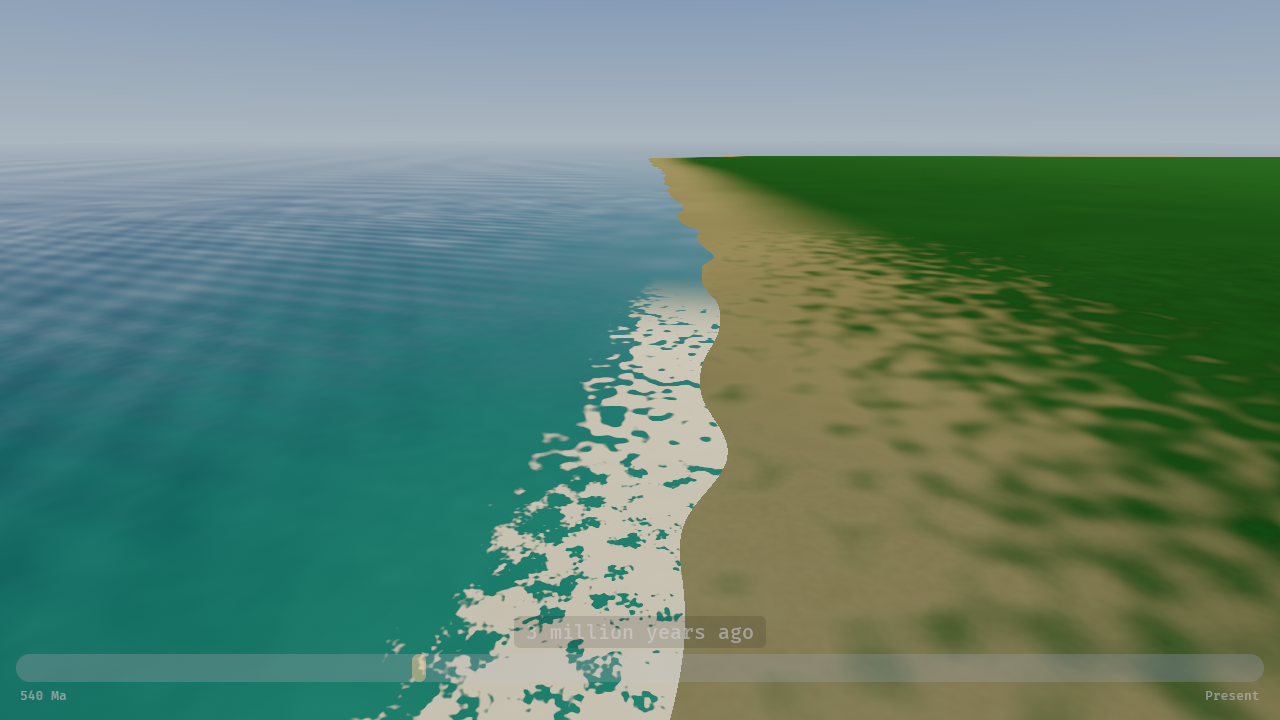
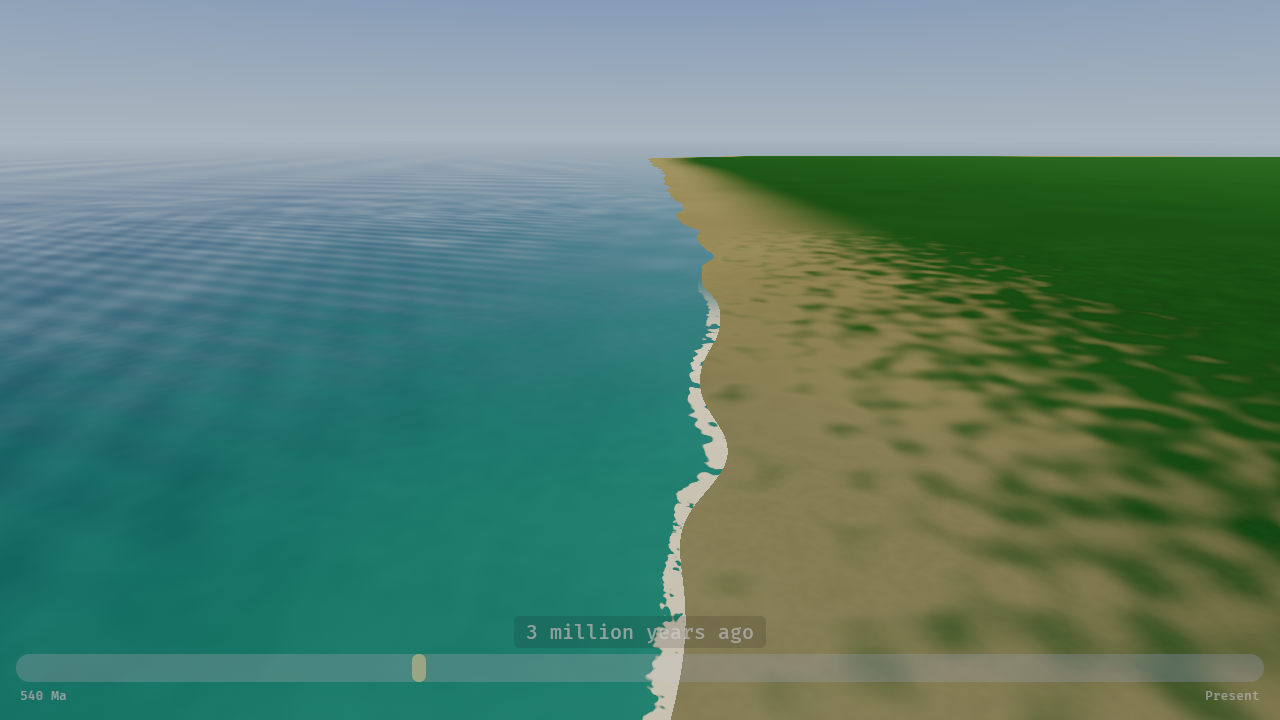
art pass: keep shore foam narrow on flat coasts, fade the swash line
- The depth-band foam ends at min(FOAM_DEPTH_M, 60 m x floor slope) of water
  (at least 2 cm), so on gentle shelves it stays about 60 m wide on the
  ground instead of kilometre-wide white fields; coasts steeper than 4/60 keep
  the 4 m band exactly (ruling R9).
- The swash foam line fades by octave_weight(footprint, its ground width), so
  on steep coasts, where it is under 2 m wide, it no longer aliases or crawls.
- Rust mirrors (foam_band_depth_m, swash_line_width_m, octave_weight) with
  tests; the floor slope is now read wherever the foam band can reach.
- The Red Sea coastal scene moves onto the shore at 19.9105,37.2116 (R10).

Changed region(s): [[0.2812, 0.3667, 0.5625, 1.0]]

diff --git a/crates/timefly/src/water.rs b/crates/timefly/src/water.rs
@@ -12,7 +12,8 @@
 //! - **Fragment:** the sea-floor depth is `−blended_height` at the fragment's surface point.
 //!   Fragments over land (depth ≤ 0) are discarded, so the shoreline is the height field's own
 //!   zero contour, per pixel. Then the depth tint ([`water_tint`]), foam where `0 < depth < 4 m`
-//!   broken up by `noise.wesl`, Bevy PBR lighting, and a Schlick Fresnel blend (f0 = 0.02) toward
+//!   (within [`FOAM_WIDTH_M`] of the edge on gentle coasts, [`foam_band_depth_m`]) broken up by
+//!   `noise.wesl`, Bevy PBR lighting, and a Schlick Fresnel blend (f0 = 0.02) toward
 //!   the sky's colour along the reflected ray.
 //!
 //! Waves (art pass §5.4, `waves.wesl`):
@@ -54,8 +55,18 @@ pub const WATER_SHADER: Handle<Shader> = uuid_handle!("6f2d0f0e-7a4b-4c2e-9d61-3
 pub const WATER_DEPTH_PULL: f32 = 6.0e-4;
 /// The constant part of the pull (m).
 pub const WATER_PULL_M: f32 = 1.0;
-/// Foam lives where the sea floor is less than this deep (m).
+/// Foam lives where the sea floor is less than this deep (m), on coasts steep enough
+/// ([`foam_band_depth_m`]); on gentler ones the band is kept within [`FOAM_WIDTH_M`].
 pub const FOAM_DEPTH_M: f32 = 4.0;
+/// The widest the shore's foam band gets on the ground (m): on a gentle shelf the
+/// [`FOAM_DEPTH_M`] band would be kilometres wide, a white field that hides the swash's line.
+pub const FOAM_WIDTH_M: f32 = 60.0;
+/// The thinnest water (m) the foam band ever ends at, so a flat floor still has one.
+pub const FOAM_MIN_DEPTH_M: f32 = 0.02;
+/// The swash's foam line is the water thinner than this fraction of the swash amplitude.
+pub const SWASH_LINE_FRACTION: f32 = 0.35;
+/// ... and never thinner than this (m), where the amplitude is tiny.
+pub const SWASH_LINE_MIN_M: f32 = 0.03;
 /// Schlick's reflectance at normal incidence for water.
 pub const WATER_F0: f32 = 0.02;
 /// The water mesh's outer radius (m): past the apron's corner from its centre.
@@ -159,6 +170,32 @@ pub fn swash_reach_factor(depth_m: f32, probe_depth_m: f32, amplitude_m: f32) ->
     t * t * (3.0 - 2.0 * t)
 }
 
+/// The water thickness (m) at which the shore's foam band ends on a floor of slope `floor_slope`:
+/// [`FOAM_DEPTH_M`] on coasts steep enough for that to be within [`FOAM_WIDTH_M`] of the edge
+/// (today's look), less on gentler ones so the band stays about [`FOAM_WIDTH_M`] wide on the
+/// ground, and never below [`FOAM_MIN_DEPTH_M`]. The band starts fading at 7.5 % of it (0.3 m
+/// of 4 m). Mirrored in `water.wesl`'s fragment stage.
+pub fn foam_band_depth_m(floor_slope: f32) -> f32 {
+    (FOAM_WIDTH_M * floor_slope).clamp(FOAM_MIN_DEPTH_M, FOAM_DEPTH_M)
+}
+
+/// The swash foam line's width on the ground (m) on a floor of slope `floor_slope`: the water
+/// thinner than [`SWASH_LINE_FRACTION`] of the amplitude (at least [`SWASH_LINE_MIN_M`]),
+/// spread over the slope. About 9 m on a gentle beach; well under a metre on a steep one, where
+/// [`octave_weight`] fades it out before it can alias. Mirrored in `water.wesl`.
+pub fn swash_line_width_m(floor_slope: f32) -> f32 {
+    (SWASH_LINE_FRACTION * swash_amplitude_m(floor_slope)).max(SWASH_LINE_MIN_M)
+        / floor_slope.max(1e-4)
+}
+
+/// How much of a pattern `scale_m` across survives a pixel footprint of `footprint_m`: all of it
+/// below a quarter of the scale, none from 0.6 of it, so nothing narrower than a couple of
+/// pixels is drawn at strength. Mirrors `octave_weight` in `water.wesl`.
+pub fn octave_weight(footprint_m: f32, scale_m: f32) -> f32 {
+    let t = ((footprint_m / scale_m - 0.25) / (0.6 - 0.25)).clamp(0.0, 1.0);
+    1.0 - t * t * (3.0 - 2.0 * t)
+}
+
 /// The water's own colour over a sea floor `depth_m` below the surface, before lighting: the
 /// shallow colour at 0 m, darkening monotonically toward the deep colour. Mirrored by
 /// `water_tint` in `water.wesl` (from the same constants, through [`WaterLook`]).
@@ -185,7 +222,7 @@ pub struct WaterLook {
     /// `x`: [`SWELL_AMPLITUDE_M`]; `y`, `z`: [`SWELL_FADE_AGL_M`]; `w`: [`SWELL_MIN_VERTICES`].
     pub swell: Vec4,
     /// `x`: [`SWASH_PERIOD_S`]; `y`: [`SWASH_PHASE_SCALE_M`]; `z`: [`SWASH_DEPTH_M`]; `w`:
-    /// reserved. The reach and the cap are `waves.wesl` constants (ruling R1).
+    /// [`FOAM_WIDTH_M`]. The reach and the cap are `waves.wesl` constants (ruling R1).
     pub swash: Vec4,
     /// `xy`: the region-local wind direction (`wind_axis`), the way it blows; `zw`: unused.
     pub wind: Vec4,
@@ -219,7 +256,12 @@ pub fn water_look(grid: &RegionGrid) -> WaterLook {
             SWELL_FADE_AGL_M[1],
             SWELL_MIN_VERTICES,
         ),
-        swash: Vec4::new(SWASH_PERIOD_S, SWASH_PHASE_SCALE_M, SWASH_DEPTH_M, 0.0),
+        swash: Vec4::new(
+            SWASH_PERIOD_S,
+            SWASH_PHASE_SCALE_M,
+            SWASH_DEPTH_M,
+            FOAM_WIDTH_M,
+        ),
         wind: wind.extend(0.0).extend(0.0),
         mesh: Vec4::new(WATER_RING_M, WATER_RING_GROWTH, WATER_SEGMENTS as f32, 0.0),
         bands: Vec4::new(
@@ -572,6 +614,74 @@ mod tests {
     }
 
     #[test]
+    fn foam_band_stays_narrow_on_flat_coasts() {
+        // Steep coasts keep the M2 band: FOAM_DEPTH_M thick.
+        for slope in [FOAM_DEPTH_M / FOAM_WIDTH_M, 0.1, 0.5, 2.0] {
+            assert_eq!(foam_band_depth_m(slope), FOAM_DEPTH_M, "slope {slope}");
+        }
+        // Gentler ones: about FOAM_WIDTH_M wide on the ground, not kilometres.
+        for slope in [0.0005f32, 0.001, 0.003, 0.01, 0.03, 0.06] {
+            let width = foam_band_depth_m(slope) / slope;
+            assert!(
+                (width - FOAM_WIDTH_M).abs() < 1e-3 * FOAM_WIDTH_M,
+                "slope {slope}: {width} m"
+            );
+        }
+        // A flat floor still has a band (no zero-width smoothstep in the shader).
+        assert_eq!(foam_band_depth_m(0.0), FOAM_MIN_DEPTH_M);
+        // Monotonic in the slope, so there is no seam where it changes.
+        let mut last = 0.0;
+        for i in 0..=2000 {
+            let d = foam_band_depth_m(i as f32 * 1e-4);
+            assert!(d >= last);
+            last = d;
+        }
+        assert_eq!(
+            wesl_const_f32(WATER_WESL, "FOAM_MIN_DEPTH_M"),
+            FOAM_MIN_DEPTH_M
+        );
+        // The shader carries the same widths, and the band ends at its depth.
+        assert!(
+            WATER_WESL
+                .contains("clamp(look.swash.w * floor_slope_m, FOAM_MIN_DEPTH_M, look.deep.w)")
+        );
+    }
+
+    #[test]
+    fn swash_line_fades_before_it_aliases() {
+        // About a third of the reach wide on a gentle beach...
+        let gentle = swash_line_width_m(0.01);
+        assert!(
+            (gentle - SWASH_LINE_FRACTION * SWASH_REACH_M).abs() < 1e-3,
+            "{gentle}"
+        );
+        // ...under 2 m on a steep coast, once the amplitude is capped.
+        assert!(swash_line_width_m(0.1) < 2.0);
+        assert!(swash_line_width_m(0.5) < 0.4);
+        // A flat floor never divides by zero.
+        assert!(swash_line_width_m(0.0).is_finite());
+        // Full strength while the footprint is under a quarter of the width; gone well before
+        // the pixel is as wide as the line, on any slope.
+        for slope in [0.0005f32, 0.005, 0.02, 0.1, 0.5, 1.0] {
+            let width = swash_line_width_m(slope);
+            assert_eq!(octave_weight(0.2 * width, width), 1.0, "slope {slope}");
+            assert_eq!(octave_weight(0.6 * width, width), 0.0, "slope {slope}");
+            assert_eq!(octave_weight(3.0 * width, width), 0.0, "slope {slope}");
+        }
+        assert_eq!(
+            wesl_const_f32(WATER_WESL, "SWASH_LINE_FRACTION"),
+            SWASH_LINE_FRACTION
+        );
+        assert_eq!(
+            wesl_const_f32(WATER_WESL, "SWASH_LINE_MIN_M"),
+            SWASH_LINE_MIN_M
+        );
+        // The shader fades the line by this weight.
+        assert!(WATER_WESL.contains("octave_weight(footprint, line_width)"));
+        assert!(WATER_WESL.contains("fn octave_weight(footprint_m: f32, scale_m: f32) -> f32 {\n    return 1.0 - smoothstep(0.25, 0.6, footprint_m / scale_m);"));
+    }
+
+    #[test]
     fn waves_wesl_mirrors_the_swash_constants() {
         // Ruling R1: terrain.wesl imports `swash_amplitude_m` with no WaterLook, so the reach
         // and the cap live in waves.wesl and must match these.
@@ -673,7 +783,7 @@ mod tests {
         assert!((look.wind.truncate().truncate() - wind).length() < 1e-6);
         assert_eq!(look.waves, water_waves(wind));
         assert_eq!(look.swell, Vec4::new(0.5, 500.0, 1000.0, 4.0));
-        assert_eq!(look.swash, Vec4::new(8.0, 800.0, 3.0, 0.0));
+        assert_eq!(look.swash, Vec4::new(8.0, 800.0, 3.0, 60.0));
         assert_eq!(look.mesh, Vec4::new(25.0, 0.04, 256.0, 0.0));
         assert_eq!(look.bands, Vec4::new(0.02, 6000.0, 2.0, 10.0));
         // Task 4's calm-from-altitude ramp.
